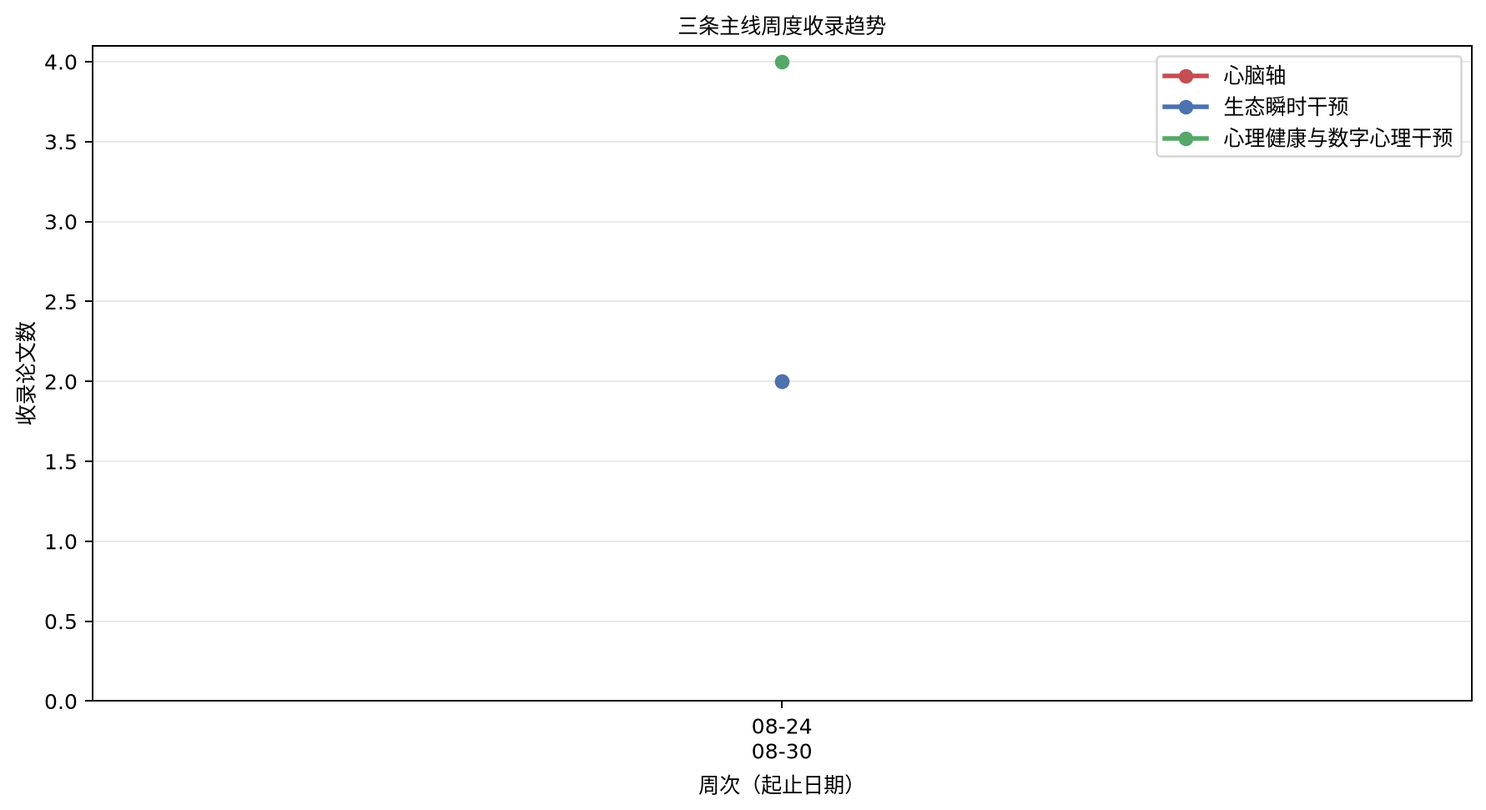
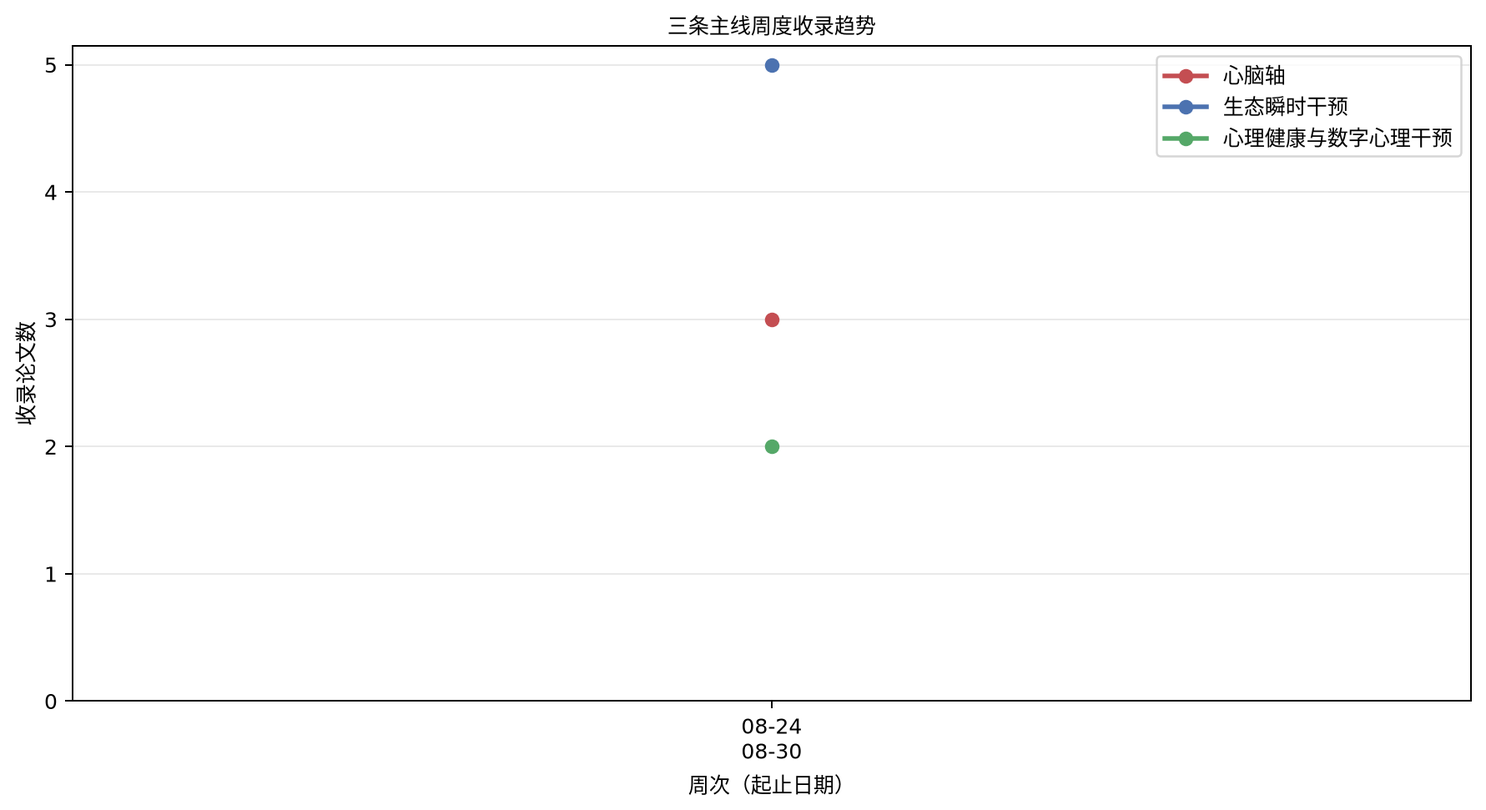
Update Newsletter for 2026-08-24_to_2026-08-30

diff --git a/newsletters/2026-08-24_to_2026-08-30_weekly_paper.html b/newsletters/2026-08-24_to_2026-08-30_weekly_paper.html
@@ -1,79 +1,89 @@
 <h1>心脑、生态瞬时干预与数字心理健康文献周报（2026-08-24 至 2026-08-30）</h1>
-<p>本期收录 5 篇文献。</p>
+<p>本期收录 6 篇文献。</p>
 <h2>重点推荐</h2>
-<p>收录 3 篇文献。</p>
-<h3>1. 基于移动通讯应用、由治疗性伴侣代理实施、针对有抑郁症状年轻成人的干预研究：概念验证与准实验研究</h3>
+<p>收录 4 篇文献。</p>
+<h3>1. 多模态脑电图–心率变异性评估个体调节模式：一种面向精准精神病学的扰动范式</h3>
+<ul>
+<li>原文标题：Multimodal EEG–HRV assessment of individual regulatory patterns: a perturbation-based approach toward precision psychiatry</li>
+<li>作者：Zsoltné Hauber, Sándor György Fekete, Elek Dinya, István Karsai, Gábor Elbert</li>
+<li>期刊：Frontiers in Psychiatry，JCR Q2，IF 3.2</li>
+<li>发表时间：2026-08-24</li>
+<li>主题标签：心脑轴；生态瞬时干预</li>
+<li>关键词：脑电图；心率变异性；自主神经调节；个体差异；精准精神病学</li>
+</ul>
+<p><strong>摘要</strong>：背景：当代精神病学研究日益强调需要客观、具有生物学基础的标志物，以补充基于症状的诊断框架。尽管脑电图广泛用于探究与注意、唤醒和认知控制相关的神经动态，但这些方法通常以脑为中心，依赖于静态或静息态范式。尽管理论模型强调脑–身体交互，自主神经动态的整合仍然有限。方法：本初步研究采用结合可穿戴脑电图与心率变异性的多模态、基于扰动的范式，考察皮质–自主神经调节动态。十名健康受试者暴露于简短的听觉条件（静默、噪声刺激和双耳节拍听觉输入）。分析额叶上β频段活动及迷走神经介导的心率变异性指标，以刻画受试者在各条件下的个体内调节反应。结果：在皮质和自主神经指标中均观察到条件相关变异，但未检测到显著的组水平效应。反应的方向和幅度呈现出显著的个体间差异。部分受试者中，脑电图与心率变异性指标之间的协调变化提示多模态皮质–自主神经反应模式，而其他受试者则表现出分歧或极小的反应轮廓。十名受试者中有四名观察到额叶上β活动降低与RMSSD升高的协调变化。鉴于本研究的探索性及样本量有限，这些观察应视为初步且具有假说生成意义。结论：这些发现支持多模态、刺激依赖性方法在表征超越静态生物标志物的动态脑–身体反应方面的潜在价值。所观察到的多模态反应配置与协调的皮质–自主神经反应模式一致，并为生成有关脑–身体调节个体差异的假说提供了有用框架。作为探索性初步研究，当前发现需在更大且临床多样化的队列中得到验证，方能得出有关生理亚型或临床应用的结论。该基于扰动的多模态脑电图–心率变异性框架可能通过为表征个体脑–身体反应变异性提供方法论基础，对未来的生理学知情的精准精神病学研究有所贡献。</p>
+<p><strong>原文链接</strong>：<a href="https://doi.org/10.3389/fpsyt.2026.1851256">Crossref</a></p>
+<h3>2. 基于瞳孔直径、皮电活动与心率通过自主神经唤醒对情绪视频进行机器学习分类</h3>
+<ul>
+<li>原文标题：Machine learning classification of emotional videos via autonomic arousal based on pupil diameters, electrodermal activity and heart rate.</li>
+<li>作者：Bruno Laeng, Imac Zambrana, Jie Hou, Ørjan Grøttem Martinsen, Kristiane Holm</li>
+<li>期刊：International journal of psychophysiology : official journal of the International Organization of Psychophysiology，JCR Q2，IF 2.6</li>
+<li>发表时间：2026-08-25</li>
+<li>主题标签：心脑轴；生态瞬时干预</li>
+<li>关键词：自主神经唤醒；瞳孔直径；机器学习情绪分类；皮电活动</li>
+</ul>
+<p><strong>摘要</strong>：本研究评估了皮电活动、心率变异性与瞳孔直径通过机器学习检测情绪状态的能力，以探究简单的唤醒指标是否能区分复杂情绪标签：愉悦、敬畏、厌恶、养育之爱与悲伤。在实验室环境中，47名参与者在观看10段短视频后立即从五个选项中选出最适切情绪标签。分类仅依赖三种心理生理指标，并应用三种机器学习模型：支持向量机、随机森林与极限梯度提升。特征包括基线校正的平均瞳孔直径与皮电活动峰值。噪声较大的心率变异性数据因信噪比不佳而被剔除。瞳孔直径反映交感去甲肾上腺素能激活及自主神经系统内的交互耦合，可提供稳定的状态估计。在核心情感环状模型中，支持向量机达到峰值准确率，瞳孔直径在所有架构中特征重要性得分最高。结果揭示多对一映射，即离散效价状态产生难以区分的生理特征：高唤醒状态与低唤醒状态被混淆。值得注意的是，敬畏引发瞳孔收缩，与厌恶特征相似。剔除心血管特征显著提升了随机森林与极限梯度提升的性能。这些发现提示，简单唤醒指标，尤其是瞳孔测量，无需复杂时间序列分析即可分类情绪。非侵入式传感器可能有助于开发以客观生理数据校准的敏感计算机系统。</p>
+<p><strong>原文链接</strong>：<a href="https://pubmed.ncbi.nlm.nih.gov/42641989/">PubMed</a></p>
+<h3>3. 基于移动即时通讯应用、由治疗伴侣代理实施的针对抑郁症状年轻成人的干预研究：概念验证与准实验研究</h3>
 <ul>
 <li>原文标题：Investigating the mobile messenger app-based intervention delivered by a therapeutic companion agent for young adults with depressive symptoms: A proof-of-concept and quasi-experimental study.</li>
 <li>作者：Youngjae Yoo, Minuk Kim, Soyoung Kim, Gayeon Lee, Jinwoo Kim</li>
 <li>期刊：Digital health，JCR Q1，IF 3.3</li>
 <li>发表时间：2026-08-28</li>
 <li>主题标签：生态瞬时干预；心理健康与数字心理干预</li>
-<li>关键词：抑郁症状；数字心理干预；生态瞬时评估与干预；治疗性伴侣代理；治疗联盟</li>
+<li>关键词：治疗伴侣代理；生态瞬时评估/干预；抑郁症状；移动即时通讯；概念验证</li>
 </ul>
-<p><strong>摘要</strong>：背景：尽管数字干预对抑郁年轻人具有临床潜力，但低参与度仍是持续挑战。会话式治疗性伴侣代理可培养数字治疗联盟以解决该障碍。目的：本研究旨在开发融合行为激活、生态瞬时评估/干预及游戏化的Wizard-of-Oz治疗性伴侣代理原型，并评估其对有抑郁症状年轻成人的概念验证可行性、可接受性与初步临床疗效。方法：招募58名年龄20至39岁、具有亚临床至中度抑郁症状的韩国年轻成人（50.0%为女性，基于患者健康问卷-9）。干预组（n=29）与治疗性伴侣代理互动六周，频率匹配的被动对照组（n=29）维持常规生活。主要结局为可行性（依从性）与可接受性（满意度）。次要疗效结局（贝克抑郁量表-II、广泛性焦虑障碍-7、生活质量 enjoyment 与满意度问卷-简版）每两周评估一次。结果：58名参与者中57人完成研究。干预被证明可行、可接受且可用，达到69.5%严格按时EMA依从率、66.2%行为激活常规完成率、平均每日满意度3.49/5.0及平均系统可用性量表得分74.02，均达到预先设定基准。探索性分析显示，与对照组相比，干预组抑郁症状显著减轻、生活质量显著改善。结论：基于治疗性伴侣代理的干预可行且可接受，成功培养了数字治疗联盟。虽然初步临床信号令人鼓舞，仍需未来充分把握度的随机对照试验以确证临床疗效。</p>
+<p><strong>摘要</strong>：背景：尽管数字干预对患有抑郁症的年轻成人具有临床潜力，但低参与度仍是持续挑战。对话式治疗伴侣代理（TCA）可通过建立数字治疗联盟来应对这一障碍。目的：本研究旨在开发一个整合行为激活、生态瞬时评估/干预（EMA/EMI）与游戏化的Wizard-of-Oz TCA原型，并评估其对患有抑郁症状的年轻成人的概念验证可行性、可接受性与初步临床疗效。方法：招募58名年龄20至39岁（50.0%女性）的韩国年轻成人，其抑郁症状处于亚临床至中度严重水平（患者健康问卷-9）。干预组（n=29）与TCA互动六周，频率匹配的被动对照组（n=29）维持日常常规。主要结局为可行性（依从性）与可接受性（满意度）。次要疗效结局（贝克抑郁量表-II、广泛性焦虑障碍-7、生活质量享受与满意度问卷-简版）每两周评估一次。结果：58名参与者中57人完成研究。干预被证实可行、可接受且可用，达到69.5%的严格准时EMA依从率、66.2%的行为激活常规完成率、平均每日满意度3.49/5.0分、系统可用性量表（SUS）平均74.02分，均达到预先设定的基准。探索性分析表明，与对照组相比，干预组在抑郁症状减轻与生活质量改善方面有显著更大提升。结论：基于TCA的干预可行且可接受，成功培育了数字治疗联盟。尽管初步临床信号令人鼓舞，仍需未来全效力的随机对照试验以明确确立临床疗效。</p>
 <p><strong>原文链接</strong>：<a href="https://pubmed.ncbi.nlm.nih.gov/42662150/">PubMed</a></p>
-<h3>2. 健康研究中的数字表型：方法、差距与机遇的范围综述</h3>
-<ul>
-<li>原文标题：Digital Phenotyping in Health Research: Scoping Review of Methods, Gaps, and Opportunities.</li>
-<li>作者：Nolwenn Badier, Alice Lafitte, Audrey Difernand, Gloria A Aguayo, Guy Fagherazzi, Jukka-Pekka Onnela, Benjamin Vittrant, Bastien Lechat, Quentin De Larochelambert, Jean-François Toussaint, Lidia Delrieu</li>
-<li>期刊：Journal of medical Internet research，JCR Q1，IF 6.0</li>
-<li>发表时间：2026-08-28</li>
-<li>主题标签：心脑轴；生态瞬时干预</li>
-<li>关键词：数字表型；可穿戴设备；纵向数据分析；方法学综述；健康研究</li>
-</ul>
-<p><strong>摘要</strong>：背景：可穿戴和联网数字设备持续产生大量真实世界的行为、生理和环境数据，为健康监测和个性化照护提供了新机会。数字表型已成为一种有前景的范式，然而关于此类数据应如何分析，目前共识有限。分析实践不一致和方法学报告不充分可能损害可重复性、可比性和研究结果的有效性。目的：本范围综述考察了健康研究中数字表型的当前分析实践，识别方法学差距，并强调透明度和标准化方法的必要性。方法：在PubMed、Scopus、Embase和Web of Science中进行了文献检索，Google Scholar作为补充来源。符合条件的研究发表于2024年12月31日之前，涉及人类群体，并在纵向健康研究中使用可穿戴数字设备。研究由多名评审者依据预设纳入标准独立筛选。数据提取聚焦于6个方法学领域：样本量确定、变量选择和定义、数据清洗与预处理、数字表型方法、预测建模及大规模数据背景下的统计显著性处理。结果：共纳入162项研究。多数研究发表于2018年及以后（n=144，89%），主要在北美开展（n=92，57%）。活动追踪器（n=81，50%）、智能手机（n=35，22%）、加速度计（n=26，16%）和智能手表（n=24，15%）是最常用的设备。最常见结局是活动水平（n=67，41%）、睡眠（n=65，40%）、步数（n=63，39%）和心率（n=46，28%）。在所有方法学领域均观察到异质性和报告不足。预处理是最常被报告的部分（n=88，54%），但缺失数据处理等具体方面仍描述不一致（n=35，22%）。样本量确定方法仅在30%（n=48）的研究中被报告，变量选择方法在27%（n=43）中被描述。数字表型方法在30%（n=48）的研究中被识别，且主要使用基于回归的模型。预测建模方法在17%（n=28）的研究中被报告，算法多样性显著且验证程序报告有限。仅有4.3%（n=7）的研究明确讨论了与大型或高维数据集相关的统计挑战。不同健康领域的实践各异，没有一个领域在所有方法学组成部分上持续展示出全面报告。结论：数字表型研究正在快速扩展，但方法学实践仍异质且标准化不足。通过提供可穿戴来源纵向数据在健康研究中当前处理和分析方式的跨领域概览，本综述强调了分析选择和理由报告中反复出现的差距，特别是在样本量确定、预处理、变量定义、预测建模和统计推断方面。这些发现强调了建立更清晰分析框架和更一致报告实践的必要性，以提高基于可穿戴数字健康研究的透明度、可重复性和方法学严谨性。试验注册：PROSPERO CRD420251234000；https://www.crd.york.ac.uk/PROSPERO/view/CRD420251234000。</p>
-<p><strong>原文链接</strong>：<a href="https://pubmed.ncbi.nlm.nih.gov/42660539/">PubMed</a></p>
-<h3>3. 每日心率变异性生物反馈练习对杏仁核结构协变网络的影响</h3>
+<h3>4. 每日心率变异性生物反馈练习对杏仁核结构协变网络的影响</h3>
 <ul>
 <li>原文标题：Effects of daily heart rate variability biofeedback practice on the amygdala's structural covariance network.</li>
 <li>作者：Kalekirstos Alemu, Hyun Joo Yoo, Kaoru Nashiro, Jungwon Min, Padideh Nasseri, Christine Cho, Paul Choi, Shelby L Bachman, Shai Porat, Shubir Dutt, Julian F Thayer, Mara Mather</li>
 <li>期刊：International journal of psychophysiology : official journal of the International Organization of Psychophysiology，JCR Q2，IF 2.6</li>
 <li>发表时间：2026-08-30</li>
-<li>主题标签：心脑轴；心理健康与数字心理干预</li>
-<li>关键词：心率变异性生物反馈；杏仁核结构协变网络；神经内脏整合模型</li>
+<li>主题标签：心脑轴；生态瞬时干预</li>
+<li>关键词：心率变异性生物反馈；神经内脏整合模型；结构性磁共振成像；结构协变；情绪调节；前额叶皮层；杏仁核</li>
 </ul>
-<p><strong>摘要</strong>：神经内脏整合模型假设杏仁核与前额叶皮层之间的交互作用影响心率变异性（HRV）和情绪调节。新近证据表明，HRV影响涉及情绪调节的脑区。本研究在既往功能性磁共振成像研究基础上，采用结构协变分析考察HRV生物反馈干预对杏仁核与皮层区域结构协变的影响。在生物反馈干预期间考察杏仁核与皮层区域的协变，可为理解HRV调节尝试如何影响参与HRV和情绪调节的神经结构提供洞察。研究采集了151名参与者（100名年轻成人，51名老年成人）干预前后的MRI扫描，参与者完成为期5周的每日生物反馈训练，目标分别为提高HRV（Osc+条件）或降低HRV（Osc-条件）。在两个年龄组中，两种干预条件与右侧杏仁核和左侧内侧前额叶皮层之间的结构协变模式呈相反关联。在Osc+条件下，左侧杏仁核体积变化与右侧眶额皮层体积变化呈负相关，而Osc-条件下未观察到显著关联。这些发现与神经内脏整合模型一致，即前额叶皮层对皮层下结构施加抑制性影响，且HRV影响参与情绪调节的脑区。</p>
+<p><strong>摘要</strong>：神经内脏整合模型认为，杏仁核与前额叶皮层之间的交互作用影响心率变异性（HRV）和情绪调节。新近证据亦提示HRV影响参与情绪调节的脑区。本研究在既往功能性磁共振成像研究基础上，采用结构协变分析考察HRV生物反馈干预对杏仁核与皮层区域结构协变的影响。在生物反馈干预期间考察杏仁核与皮层区域的协变，可揭示HRV调节尝试如何影响参与HRV和情绪调节的神经结构。研究采集151名参与者（100名年轻成人、51名老年成人）基线和干预后MRI扫描数据，参与者完成为期5周的每日生物反馈训练，以增强（Osc+条件）或降低（Osc-条件）HRV。在两个年龄组中，两种干预条件与右侧杏仁核和左侧内侧前额叶皮层之间相反的结构协变模式相关。在Osc+条件下，左侧杏仁核体积变化与右侧眶额皮层体积变化呈负相关，而Osc-条件下未观察到显著关联。上述发现与神经内脏整合模型一致，即前额叶皮层对皮层下结构发挥抑制性影响，且HRV影响参与情绪调节的脑区。</p>
 <p><strong>原文链接</strong>：<a href="https://pubmed.ncbi.nlm.nih.gov/42669395/">PubMed</a></p>
 <h2>心脑轴</h2>
 <p>收录 0 篇文献。</p>
 <p>本期无符合条件的文献。</p>
 <h2>生态瞬时干预</h2>
-<p>收录 0 篇文献。</p>
-<p>本期无符合条件的文献。</p>
+<p>收录 1 篇文献。</p>
+<h3>1. 健康研究中的数字表型：方法、缺口与机遇的范围综述</h3>
+<ul>
+<li>原文标题：Digital Phenotyping in Health Research: Scoping Review of Methods, Gaps, and Opportunities.</li>
+<li>作者：Nolwenn Badier, Alice Lafitte, Audrey Difernand, Gloria A Aguayo, Guy Fagherazzi, Jukka-Pekka Onnela, Benjamin Vittrant, Bastien Lechat, Quentin De Larochelambert, Jean-François Toussaint, Lidia Delrieu</li>
+<li>期刊：Journal of medical Internet research，JCR Q1，IF 6.0</li>
+<li>发表时间：2026-08-28</li>
+<li>主题标签：生态瞬时干预</li>
+<li>关键词：数字表型；可穿戴设备；纵向数据；方法学综述；健康研究</li>
+</ul>
+<p><strong>摘要</strong>：背景：可穿戴及互联数字设备持续产生大量真实世界的行为、生理和环境数据，为健康监测和个体化照护提供了新机会。数字表型已成为一个有前景的范式，然而在如何分析此类数据方面共识有限。不一致的分析实践和方法学报告不足可能损害结果的可重复性、可比性和有效性。目的：本范围综述考察了健康研究中数字表型的当前分析实践，识别方法学缺口，并强调透明性和标准化方法的必要性。方法：在PubMed、Scopus、Embase和Web of Science中进行文献检索，并以Google Scholar作为补充来源。纳入研究发表于2024年12月31日之前，涉及人类群体，并在纵向健康研究中使用可穿戴数字设备。研究由多名评审者依据预定纳入标准独立筛选。数据提取聚焦于6个方法学领域：样本量确定、变量选择与定义、数据清洗与预处理、数字表型方法、预测建模，以及大规模数据情境下的统计显著性处理。结果：共纳入162项研究。多数研究自2018年起发表（n=144，89%），主要在北美洲开展（n=92，57%）。最常用的设备为活动追踪器（n=81，50%）、智能手机（n=35，22%）、加速度计（n=26，16%）和智能手表（n=24，15%）。最常见的结果为活动水平（n=67，41%）、睡眠（n=65，40%）、步数（n=63，39%）和心率（n=46，28%）。在所有方法学领域均观察到异质性和报告不足。预处理是最常报告的部分（n=88，54%），但缺失数据处理等具体方面仍描述不一致（n=35，22%）。仅30%（n=48）的研究报告了样本量确定方法，27%（n=43）描述了变量选择方法。30%（n=48）的研究识别出数字表型方法且以基于回归的模型为主。17%（n=28）的研究报告了预测建模方法，算法差异大且验证程序报告有限。仅4.3%（n=7）的研究明确讨论了与大规模或高维数据集相关的统计挑战。各健康领域的实践各异，没有领域在所有方法学组成部分中持续展现全面报告。结论：数字表型研究正在快速扩展，但方法学实践仍异质性高且标准化不足。通过提供当前健康研究中可穿戴来源纵向数据处理与分析方式的跨领域概览，本综述强调了分析选择报告与论证中的反复缺口，尤其在样本量确定、预处理、变量定义、预测建模和统计推断方面。这些发现提示需更清晰的分析框架和更一致的报告实践，以提高基于可穿戴数字健康研究的透明性、可重复性和方法学严谨性。</p>
+<p><strong>原文链接</strong>：<a href="https://pubmed.ncbi.nlm.nih.gov/42660539/">PubMed</a></p>
 <h2>心理健康与数字心理干预</h2>
-<p>收录 2 篇文献。</p>
-<h3>1. 与AI驱动的数字心理健康干预Yuna相关的情绪和压力的即时及持续改善：现实世界回顾性研究</h3>
+<p>收录 1 篇文献。</p>
+<h3>1. 与AI驱动的数字心理健康干预Yuna相关的情绪和压力的即时及持续改善：真实世界回顾性研究</h3>
 <ul>
 <li>原文标题：Immediate and Sustained Improvements in Mood and Stress Associated With Yuna, an AI-Powered Digital Mental Health Intervention: Real-World Retrospective Study.</li>
 <li>作者：Kelsey McAlister, Courtney Jewell, Chad Stecher, Jennifer Huberty</li>
 <li>期刊：JMIR mHealth and uHealth，JCR Q1，IF 6.2</li>
 <li>发表时间：2026-08-25</li>
 <li>主题标签：心理健康与数字心理干预</li>
-<li>关键词：AI心理健康干预；情绪改善；压力改善；现实世界研究</li>
+<li>关键词：AI驱动的数字心理健康干预；情绪改善；压力改善；真实世界研究；会话内即时效应</li>
 </ul>
-<p><strong>摘要</strong>：背景：AI驱动的数字心理健康干预是解决传统心理保健障碍的一种有前景的方法。然而，其在现实世界中即时和持续益处的证据仍然有限。目的：这项现实世界回顾性研究旨在探索与使用AI驱动的数字心理健康干预Yuna相关的感知情绪和压力变化模式。我们旨在描述用户人口统计学和会话特征，量化会话内及随时间持续使用Yuna时情绪和压力变化的幅度，并识别与会话中情绪和压力变化相关的会话层面因素。方法：纳入至少启动一次Yuna应用程序会话的成年用户。用户在会话前后通过视觉模拟量表自我报告情绪和压力。使用线性混合效应模型探索会话内情绪和压力的即时改善，以及会话间情绪和压力症状的持续变化。同时检验会话层面预测因素。结果：共纳入5549名现实世界用户。用户在情绪和压力方面均表现出显著的即时会话内改善，敏感性分析结果一致。会话间分析显示基线情绪和压力逐渐改善。基线症状严重程度是即时会话内变化的最强预测因素，其次是会话持续时间。使用的独特治疗方法数量越多，两种结局的改善越小。结论：使用AI驱动的数字心理健康干预Yuna与感知的会话内情绪和压力改善相关，并提供了重复会话中情绪和压力逐渐改善的初步证据。然而，缺乏对照组和潜在的选择偏差排除了因果结论。这些发现为AI驱动的数字心理健康干预作为可获得的即时支持工具提供了有前景的现实世界证据。需要前瞻性对照设计以确定因果效应并评估所观察改善的可持续性。</p>
+<p><strong>摘要</strong>：背景：AI驱动的数字心理健康干预是解决传统心理健康护理障碍的一种有前景的方法。然而，其在真实世界中即时和持续获益的证据仍然有限。目的：这项真实世界回顾性研究旨在探索与使用Yuna（一种AI驱动的数字心理健康干预）相关的感知情绪和压力变化模式。具体目标包括描述用户人口统计学和会话特征，量化会话内及持续使用过程中的情绪和压力变化幅度，并识别与会话内情绪和压力变化相关的会话层面因素。方法：成年Yuna用户中启动至少一次会话者被纳入研究。用户在会话前后使用视觉模拟量表自我报告情绪和压力。采用线性混合效应模型探索会话内即时改善以及会话间情绪和压力症状的持续变化。同时使用线性混合效应模型检验会话内改善的预测因素，包括基线症状严重程度、会话时长、使用的独特治疗方法总数、安全护栏激活和性别。结果：共纳入5549名真实世界用户。用户在情绪和压力方面均表现出显著的即时会话内改善，敏感性分析结果一致。会话间分析显示基线和压力的逐步改善。基线症状严重程度是即时会话内变化的最强预测因素，其次是会话时长。使用的独特治疗方法数量较多与两种结局的较小改善相关。结论：使用Yuna与感知的会话内情绪和压力改善相关，并初步提示多次会话后情绪和压力逐步改善。然而，缺乏对照组和潜在选择偏倚排除了因果结论。这些发现为AI驱动的数字心理健康干预作为可及、按需支持工具提供了有前景的真实世界证据。未来需要前瞻性对照设计以确定因果效应并评估所观察改善的可持续性。</p>
 <p><strong>原文链接</strong>：<a href="https://pubmed.ncbi.nlm.nih.gov/42641108/">PubMed</a></p>
-<h3>2. 与Yuna相关的情绪和压力即时及持续改善：一项AI驱动的数字心理健康干预的真实世界回顾性研究</h3>
-<ul>
-<li>原文标题：Immediate and Sustained Improvements in Mood and Stress Associated With Yuna, an AI-Powered Digital Mental Health Intervention: Real-World Retrospective Study</li>
-<li>作者：Kelsey McAlister, Courtney Jewell, Chad Stecher, Jennifer Huberty</li>
-<li>期刊：JMIR mHealth and uHealth，JCR Q1，IF 6.2</li>
-<li>发表时间：2026-08-25</li>
-<li>主题标签：心理健康与数字心理干预</li>
-<li>关键词：AI驱动数字心理干预；情绪改善；压力改善；真实世界研究；视觉模拟量表</li>
-</ul>
-<p><strong>摘要</strong>：背景：AI驱动的数字心理健康干预是有望解决传统心理保健障碍的一种方法，但其即时和持续益处的真实世界证据仍然有限。目的：本真实世界回顾性研究旨在探索使用AI驱动的数字心理健康干预Yuna时感知情绪和压力变化模式。具体目标为：（1）描述用户人口统计学特征和会话特征，（2）量化会话内及随持续使用Yuna随时间推移的情绪和压力变化幅度，以及（3）识别与会话内情绪和压力变化相关的会话层面因素。方法：纳入至少启动一次Yuna应用会话的成年用户（年龄≥18岁）。用户在会话前后通过视觉模拟量表（范围0-1）自我报告情绪和压力。采用线性混合效应模型探讨情绪和压力的即时会话内改善，以及症状变化的持续会话间改善；同时检验会话内改善的会话层面预测因素，包括基线症状严重程度、会话时长、使用的独特治疗方法总数、安全护栏激活和性别。结果：共纳入5549名真实世界用户（女性2901/5549，占52.3%；平均会话次数3.44，标准差9.83）。用户在情绪（d=0.55）和压力（d=0.56）方面均表现出显著的即时会话内改善，敏感性分析结果一致。会话间分析显示基线情绪（d=−0.009）和压力（d=−0.011）逐步改善。基线症状严重程度是即时会话内变化的最强预测因素（情绪：β=.118，SE 0.003；P&lt;.001；压力：β=.131，SE 0.004；P&lt;.001），其次为会话时长（情绪：β=.027，SE 0.003；P=.003；压力：β=.029，SE 0.003；P&lt;.001）。使用的独特治疗方法数量较多与两种结局的较小改善相关（情绪：β=−0.007，SE 0.003；P=.043；压力：β=−0.011，SE 0.003；P=.002）。结论：使用AI驱动的数字心理健康干预Yuna与感知的会话内情绪和压力改善相关，且初步证据显示重复会话后情绪和压力逐渐改善。然而，缺乏对照组和潜在选择偏倚排除了因果结论。这些发现为AI驱动的数字心理健康干预作为可获得、按需支持工具提供了有前景的真实世界证据。未来需采用前瞻性、对照设计以确证因果效应并评估所观察改善的持续性。</p>
-<p><strong>原文链接</strong>：<a href="https://doi.org/10.2196/94070">Crossref</a></p>
 <h2>数据分析</h2>
 <ul>
-<li>本周唯一收录：5 篇。</li>
-<li>三条主线：心脑轴 2 篇；生态瞬时干预 2 篇；心理健康与数字心理干预 4 篇。</li>
+<li>本周唯一收录：6 篇。</li>
+<li>三条主线：心脑轴 3 篇；生态瞬时干预 5 篇；心理健康与数字心理干预 2 篇。</li>
 <li>首个统计周，后续周报将显示与前一周的变化。</li>
 <li>提示：交叉研究可同时计入多条主线，因此三条主线之和可能高于唯一论文数。</li>
 </ul>
 <h3>热门主题</h3>
-<p>情绪改善（2）；压力改善（2）；AI心理健康干预（1）；现实世界研究（1）；AI驱动数字心理干预（1）；真实世界研究（1）；视觉模拟量表（1）；抑郁症状（1）；数字心理干预（1）；生态瞬时评估与干预（1）；治疗性伴侣代理（1）；治疗联盟（1）</p>
+<p>脑电图（1）；心率变异性（1）；自主神经调节（1）；个体差异（1）；精准精神病学（1）；自主神经唤醒（1）；瞳孔直径（1）；机器学习情绪分类（1）；皮电活动（1）；AI驱动的数字心理健康干预（1）；情绪改善（1）；压力改善（1）</p>
 <h3>关键词云图</h3>
 <p><img alt="2026-08-24_to_2026-08-30 关键词云图" src="assets/2026-08-24_to_2026-08-30_wordcloud.png" /></p>
 <h3>三主线周度趋势</h3>

diff --git a/newsletters/2026-08-24_to_2026-08-30_weekly_paper.md b/newsletters/2026-08-24_to_2026-08-30_weekly_paper.md
@@ -1,46 +1,59 @@
 # 心脑、生态瞬时干预与数字心理健康文献周报（2026-08-24 至 2026-08-30）
 
-本期收录 5 篇文献。
+本期收录 6 篇文献。
 
 ## 重点推荐
-收录 3 篇文献。
+收录 4 篇文献。
 
-### 1. 基于移动通讯应用、由治疗性伴侣代理实施、针对有抑郁症状年轻成人的干预研究：概念验证与准实验研究
+### 1. 多模态脑电图–心率变异性评估个体调节模式：一种面向精准精神病学的扰动范式
+
+- 原文标题：Multimodal EEG–HRV assessment of individual regulatory patterns: a perturbation-based approach toward precision psychiatry
+- 作者：Zsoltné Hauber, Sándor György Fekete, Elek Dinya, István Karsai, Gábor Elbert
+- 期刊：Frontiers in Psychiatry，JCR Q2，IF 3.2
+- 发表时间：2026-08-24
+- 主题标签：心脑轴；生态瞬时干预
+- 关键词：脑电图；心率变异性；自主神经调节；个体差异；精准精神病学
+
+**摘要**：背景：当代精神病学研究日益强调需要客观、具有生物学基础的标志物，以补充基于症状的诊断框架。尽管脑电图广泛用于探究与注意、唤醒和认知控制相关的神经动态，但这些方法通常以脑为中心，依赖于静态或静息态范式。尽管理论模型强调脑–身体交互，自主神经动态的整合仍然有限。方法：本初步研究采用结合可穿戴脑电图与心率变异性的多模态、基于扰动的范式，考察皮质–自主神经调节动态。十名健康受试者暴露于简短的听觉条件（静默、噪声刺激和双耳节拍听觉输入）。分析额叶上β频段活动及迷走神经介导的心率变异性指标，以刻画受试者在各条件下的个体内调节反应。结果：在皮质和自主神经指标中均观察到条件相关变异，但未检测到显著的组水平效应。反应的方向和幅度呈现出显著的个体间差异。部分受试者中，脑电图与心率变异性指标之间的协调变化提示多模态皮质–自主神经反应模式，而其他受试者则表现出分歧或极小的反应轮廓。十名受试者中有四名观察到额叶上β活动降低与RMSSD升高的协调变化。鉴于本研究的探索性及样本量有限，这些观察应视为初步且具有假说生成意义。结论：这些发现支持多模态、刺激依赖性方法在表征超越静态生物标志物的动态脑–身体反应方面的潜在价值。所观察到的多模态反应配置与协调的皮质–自主神经反应模式一致，并为生成有关脑–身体调节个体差异的假说提供了有用框架。作为探索性初步研究，当前发现需在更大且临床多样化的队列中得到验证，方能得出有关生理亚型或临床应用的结论。该基于扰动的多模态脑电图–心率变异性框架可能通过为表征个体脑–身体反应变异性提供方法论基础，对未来的生理学知情的精准精神病学研究有所贡献。
+
+**原文链接**：[Crossref](https://doi.org/10.3389/fpsyt.2026.1851256)
+
+### 2. 基于瞳孔直径、皮电活动与心率通过自主神经唤醒对情绪视频进行机器学习分类
+
+- 原文标题：Machine learning classification of emotional videos via autonomic arousal based on pupil diameters, electrodermal activity and heart rate.
+- 作者：Bruno Laeng, Imac Zambrana, Jie Hou, Ørjan Grøttem Martinsen, Kristiane Holm
+- 期刊：International journal of psychophysiology : official journal of the International Organization of Psychophysiology，JCR Q2，IF 2.6
+- 发表时间：2026-08-25
+- 主题标签：心脑轴；生态瞬时干预
+- 关键词：自主神经唤醒；瞳孔直径；机器学习情绪分类；皮电活动
+
+**摘要**：本研究评估了皮电活动、心率变异性与瞳孔直径通过机器学习检测情绪状态的能力，以探究简单的唤醒指标是否能区分复杂情绪标签：愉悦、敬畏、厌恶、养育之爱与悲伤。在实验室环境中，47名参与者在观看10段短视频后立即从五个选项中选出最适切情绪标签。分类仅依赖三种心理生理指标，并应用三种机器学习模型：支持向量机、随机森林与极限梯度提升。特征包括基线校正的平均瞳孔直径与皮电活动峰值。噪声较大的心率变异性数据因信噪比不佳而被剔除。瞳孔直径反映交感去甲肾上腺素能激活及自主神经系统内的交互耦合，可提供稳定的状态估计。在核心情感环状模型中，支持向量机达到峰值准确率，瞳孔直径在所有架构中特征重要性得分最高。结果揭示多对一映射，即离散效价状态产生难以区分的生理特征：高唤醒状态与低唤醒状态被混淆。值得注意的是，敬畏引发瞳孔收缩，与厌恶特征相似。剔除心血管特征显著提升了随机森林与极限梯度提升的性能。这些发现提示，简单唤醒指标，尤其是瞳孔测量，无需复杂时间序列分析即可分类情绪。非侵入式传感器可能有助于开发以客观生理数据校准的敏感计算机系统。
+
+**原文链接**：[PubMed](https://pubmed.ncbi.nlm.nih.gov/42641989/)
+
+### 3. 基于移动即时通讯应用、由治疗伴侣代理实施的针对抑郁症状年轻成人的干预研究：概念验证与准实验研究
 
 - 原文标题：Investigating the mobile messenger app-based intervention delivered by a therapeutic companion agent for young adults with depressive symptoms: A proof-of-concept and quasi-experimental study.
 - 作者：Youngjae Yoo, Minuk Kim, Soyoung Kim, Gayeon Lee, Jinwoo Kim
 - 期刊：Digital health，JCR Q1，IF 3.3
 - 发表时间：2026-08-28
 - 主题标签：生态瞬时干预；心理健康与数字心理干预
-- 关键词：抑郁症状；数字心理干预；生态瞬时评估与干预；治疗性伴侣代理；治疗联盟
+- 关键词：治疗伴侣代理；生态瞬时评估/干预；抑郁症状；移动即时通讯；概念验证
 
-**摘要**：背景：尽管数字干预对抑郁年轻人具有临床潜力，但低参与度仍是持续挑战。会话式治疗性伴侣代理可培养数字治疗联盟以解决该障碍。目的：本研究旨在开发融合行为激活、生态瞬时评估/干预及游戏化的Wizard-of-Oz治疗性伴侣代理原型，并评估其对有抑郁症状年轻成人的概念验证可行性、可接受性与初步临床疗效。方法：招募58名年龄20至39岁、具有亚临床至中度抑郁症状的韩国年轻成人（50.0%为女性，基于患者健康问卷-9）。干预组（n=29）与治疗性伴侣代理互动六周，频率匹配的被动对照组（n=29）维持常规生活。主要结局为可行性（依从性）与可接受性（满意度）。次要疗效结局（贝克抑郁量表-II、广泛性焦虑障碍-7、生活质量 enjoyment 与满意度问卷-简版）每两周评估一次。结果：58名参与者中57人完成研究。干预被证明可行、可接受且可用，达到69.5%严格按时EMA依从率、66.2%行为激活常规完成率、平均每日满意度3.49/5.0及平均系统可用性量表得分74.02，均达到预先设定基准。探索性分析显示，与对照组相比，干预组抑郁症状显著减轻、生活质量显著改善。结论：基于治疗性伴侣代理的干预可行且可接受，成功培养了数字治疗联盟。虽然初步临床信号令人鼓舞，仍需未来充分把握度的随机对照试验以确证临床疗效。
+**摘要**：背景：尽管数字干预对患有抑郁症的年轻成人具有临床潜力，但低参与度仍是持续挑战。对话式治疗伴侣代理（TCA）可通过建立数字治疗联盟来应对这一障碍。目的：本研究旨在开发一个整合行为激活、生态瞬时评估/干预（EMA/EMI）与游戏化的Wizard-of-Oz TCA原型，并评估其对患有抑郁症状的年轻成人的概念验证可行性、可接受性与初步临床疗效。方法：招募58名年龄20至39岁（50.0%女性）的韩国年轻成人，其抑郁症状处于亚临床至中度严重水平（患者健康问卷-9）。干预组（n=29）与TCA互动六周，频率匹配的被动对照组（n=29）维持日常常规。主要结局为可行性（依从性）与可接受性（满意度）。次要疗效结局（贝克抑郁量表-II、广泛性焦虑障碍-7、生活质量享受与满意度问卷-简版）每两周评估一次。结果：58名参与者中57人完成研究。干预被证实可行、可接受且可用，达到69.5%的严格准时EMA依从率、66.2%的行为激活常规完成率、平均每日满意度3.49/5.0分、系统可用性量表（SUS）平均74.02分，均达到预先设定的基准。探索性分析表明，与对照组相比，干预组在抑郁症状减轻与生活质量改善方面有显著更大提升。结论：基于TCA的干预可行且可接受，成功培育了数字治疗联盟。尽管初步临床信号令人鼓舞，仍需未来全效力的随机对照试验以明确确立临床疗效。
 
 **原文链接**：[PubMed](https://pubmed.ncbi.nlm.nih.gov/42662150/)
 
-### 2. 健康研究中的数字表型：方法、差距与机遇的范围综述
-
-- 原文标题：Digital Phenotyping in Health Research: Scoping Review of Methods, Gaps, and Opportunities.
-- 作者：Nolwenn Badier, Alice Lafitte, Audrey Difernand, Gloria A Aguayo, Guy Fagherazzi, Jukka-Pekka Onnela, Benjamin Vittrant, Bastien Lechat, Quentin De Larochelambert, Jean-François Toussaint, Lidia Delrieu
-- 期刊：Journal of medical Internet research，JCR Q1，IF 6.0
-- 发表时间：2026-08-28
-- 主题标签：心脑轴；生态瞬时干预
-- 关键词：数字表型；可穿戴设备；纵向数据分析；方法学综述；健康研究
-
-**摘要**：背景：可穿戴和联网数字设备持续产生大量真实世界的行为、生理和环境数据，为健康监测和个性化照护提供了新机会。数字表型已成为一种有前景的范式，然而关于此类数据应如何分析，目前共识有限。分析实践不一致和方法学报告不充分可能损害可重复性、可比性和研究结果的有效性。目的：本范围综述考察了健康研究中数字表型的当前分析实践，识别方法学差距，并强调透明度和标准化方法的必要性。方法：在PubMed、Scopus、Embase和Web of Science中进行了文献检索，Google Scholar作为补充来源。符合条件的研究发表于2024年12月31日之前，涉及人类群体，并在纵向健康研究中使用可穿戴数字设备。研究由多名评审者依据预设纳入标准独立筛选。数据提取聚焦于6个方法学领域：样本量确定、变量选择和定义、数据清洗与预处理、数字表型方法、预测建模及大规模数据背景下的统计显著性处理。结果：共纳入162项研究。多数研究发表于2018年及以后（n=144，89%），主要在北美开展（n=92，57%）。活动追踪器（n=81，50%）、智能手机（n=35，22%）、加速度计（n=26，16%）和智能手表（n=24，15%）是最常用的设备。最常见结局是活动水平（n=67，41%）、睡眠（n=65，40%）、步数（n=63，39%）和心率（n=46，28%）。在所有方法学领域均观察到异质性和报告不足。预处理是最常被报告的部分（n=88，54%），但缺失数据处理等具体方面仍描述不一致（n=35，22%）。样本量确定方法仅在30%（n=48）的研究中被报告，变量选择方法在27%（n=43）中被描述。数字表型方法在30%（n=48）的研究中被识别，且主要使用基于回归的模型。预测建模方法在17%（n=28）的研究中被报告，算法多样性显著且验证程序报告有限。仅有4.3%（n=7）的研究明确讨论了与大型或高维数据集相关的统计挑战。不同健康领域的实践各异，没有一个领域在所有方法学组成部分上持续展示出全面报告。结论：数字表型研究正在快速扩展，但方法学实践仍异质且标准化不足。通过提供可穿戴来源纵向数据在健康研究中当前处理和分析方式的跨领域概览，本综述强调了分析选择和理由报告中反复出现的差距，特别是在样本量确定、预处理、变量定义、预测建模和统计推断方面。这些发现强调了建立更清晰分析框架和更一致报告实践的必要性，以提高基于可穿戴数字健康研究的透明度、可重复性和方法学严谨性。试验注册：PROSPERO CRD420251234000；https://www.crd.york.ac.uk/PROSPERO/view/CRD420251234000。
-
-**原文链接**：[PubMed](https://pubmed.ncbi.nlm.nih.gov/42660539/)
-
-### 3. 每日心率变异性生物反馈练习对杏仁核结构协变网络的影响
+### 4. 每日心率变异性生物反馈练习对杏仁核结构协变网络的影响
 
 - 原文标题：Effects of daily heart rate variability biofeedback practice on the amygdala's structural covariance network.
 - 作者：Kalekirstos Alemu, Hyun Joo Yoo, Kaoru Nashiro, Jungwon Min, Padideh Nasseri, Christine Cho, Paul Choi, Shelby L Bachman, Shai Porat, Shubir Dutt, Julian F Thayer, Mara Mather
 - 期刊：International journal of psychophysiology : official journal of the International Organization of Psychophysiology，JCR Q2，IF 2.6
 - 发表时间：2026-08-30
-- 主题标签：心脑轴；心理健康与数字心理干预
-- 关键词：心率变异性生物反馈；杏仁核结构协变网络；神经内脏整合模型
+- 主题标签：心脑轴；生态瞬时干预
+- 关键词：心率变异性生物反馈；神经内脏整合模型；结构性磁共振成像；结构协变；情绪调节；前额叶皮层；杏仁核
 
-**摘要**：神经内脏整合模型假设杏仁核与前额叶皮层之间的交互作用影响心率变异性（HRV）和情绪调节。新近证据表明，HRV影响涉及情绪调节的脑区。本研究在既往功能性磁共振成像研究基础上，采用结构协变分析考察HRV生物反馈干预对杏仁核与皮层区域结构协变的影响。在生物反馈干预期间考察杏仁核与皮层区域的协变，可为理解HRV调节尝试如何影响参与HRV和情绪调节的神经结构提供洞察。研究采集了151名参与者（100名年轻成人，51名老年成人）干预前后的MRI扫描，参与者完成为期5周的每日生物反馈训练，目标分别为提高HRV（Osc+条件）或降低HRV（Osc-条件）。在两个年龄组中，两种干预条件与右侧杏仁核和左侧内侧前额叶皮层之间的结构协变模式呈相反关联。在Osc+条件下，左侧杏仁核体积变化与右侧眶额皮层体积变化呈负相关，而Osc-条件下未观察到显著关联。这些发现与神经内脏整合模型一致，即前额叶皮层对皮层下结构施加抑制性影响，且HRV影响参与情绪调节的脑区。
+**摘要**：神经内脏整合模型认为，杏仁核与前额叶皮层之间的交互作用影响心率变异性（HRV）和情绪调节。新近证据亦提示HRV影响参与情绪调节的脑区。本研究在既往功能性磁共振成像研究基础上，采用结构协变分析考察HRV生物反馈干预对杏仁核与皮层区域结构协变的影响。在生物反馈干预期间考察杏仁核与皮层区域的协变，可揭示HRV调节尝试如何影响参与HRV和情绪调节的神经结构。研究采集151名参与者（100名年轻成人、51名老年成人）基线和干预后MRI扫描数据，参与者完成为期5周的每日生物反馈训练，以增强（Osc+条件）或降低（Osc-条件）HRV。在两个年龄组中，两种干预条件与右侧杏仁核和左侧内侧前额叶皮层之间相反的结构协变模式相关。在Osc+条件下，左侧杏仁核体积变化与右侧眶额皮层体积变化呈负相关，而Osc-条件下未观察到显著关联。上述发现与神经内脏整合模型一致，即前额叶皮层对皮层下结构发挥抑制性影响，且HRV影响参与情绪调节的脑区。
 
 **原文链接**：[PubMed](https://pubmed.ncbi.nlm.nih.gov/42669395/)
 
@@ -51,50 +64,49 @@
 本期无符合条件的文献。
 
 ## 生态瞬时干预
-收录 0 篇文献。
+收录 1 篇文献。
 
-本期无符合条件的文献。
+### 1. 健康研究中的数字表型：方法、缺口与机遇的范围综述
+
+- 原文标题：Digital Phenotyping in Health Research: Scoping Review of Methods, Gaps, and Opportunities.
+- 作者：Nolwenn Badier, Alice Lafitte, Audrey Difernand, Gloria A Aguayo, Guy Fagherazzi, Jukka-Pekka Onnela, Benjamin Vittrant, Bastien Lechat, Quentin De Larochelambert, Jean-François Toussaint, Lidia Delrieu
+- 期刊：Journal of medical Internet research，JCR Q1，IF 6.0
+- 发表时间：2026-08-28
+- 主题标签：生态瞬时干预
+- 关键词：数字表型；可穿戴设备；纵向数据；方法学综述；健康研究
+
+**摘要**：背景：可穿戴及互联数字设备持续产生大量真实世界的行为、生理和环境数据，为健康监测和个体化照护提供了新机会。数字表型已成为一个有前景的范式，然而在如何分析此类数据方面共识有限。不一致的分析实践和方法学报告不足可能损害结果的可重复性、可比性和有效性。目的：本范围综述考察了健康研究中数字表型的当前分析实践，识别方法学缺口，并强调透明性和标准化方法的必要性。方法：在PubMed、Scopus、Embase和Web of Science中进行文献检索，并以Google Scholar作为补充来源。纳入研究发表于2024年12月31日之前，涉及人类群体，并在纵向健康研究中使用可穿戴数字设备。研究由多名评审者依据预定纳入标准独立筛选。数据提取聚焦于6个方法学领域：样本量确定、变量选择与定义、数据清洗与预处理、数字表型方法、预测建模，以及大规模数据情境下的统计显著性处理。结果：共纳入162项研究。多数研究自2018年起发表（n=144，89%），主要在北美洲开展（n=92，57%）。最常用的设备为活动追踪器（n=81，50%）、智能手机（n=35，22%）、加速度计（n=26，16%）和智能手表（n=24，15%）。最常见的结果为活动水平（n=67，41%）、睡眠（n=65，40%）、步数（n=63，39%）和心率（n=46，28%）。在所有方法学领域均观察到异质性和报告不足。预处理是最常报告的部分（n=88，54%），但缺失数据处理等具体方面仍描述不一致（n=35，22%）。仅30%（n=48）的研究报告了样本量确定方法，27%（n=43）描述了变量选择方法。30%（n=48）的研究识别出数字表型方法且以基于回归的模型为主。17%（n=28）的研究报告了预测建模方法，算法差异大且验证程序报告有限。仅4.3%（n=7）的研究明确讨论了与大规模或高维数据集相关的统计挑战。各健康领域的实践各异，没有领域在所有方法学组成部分中持续展现全面报告。结论：数字表型研究正在快速扩展，但方法学实践仍异质性高且标准化不足。通过提供当前健康研究中可穿戴来源纵向数据处理与分析方式的跨领域概览，本综述强调了分析选择报告与论证中的反复缺口，尤其在样本量确定、预处理、变量定义、预测建模和统计推断方面。这些发现提示需更清晰的分析框架和更一致的报告实践，以提高基于可穿戴数字健康研究的透明性、可重复性和方法学严谨性。
+
+**原文链接**：[PubMed](https://pubmed.ncbi.nlm.nih.gov/42660539/)
+
 
 ## 心理健康与数字心理干预
-收录 2 篇文献。
+收录 1 篇文献。
 
-### 1. 与AI驱动的数字心理健康干预Yuna相关的情绪和压力的即时及持续改善：现实世界回顾性研究
+### 1. 与AI驱动的数字心理健康干预Yuna相关的情绪和压力的即时及持续改善：真实世界回顾性研究
 
 - 原文标题：Immediate and Sustained Improvements in Mood and Stress Associated With Yuna, an AI-Powered Digital Mental Health Intervention: Real-World Retrospective Study.
 - 作者：Kelsey McAlister, Courtney Jewell, Chad Stecher, Jennifer Huberty
 - 期刊：JMIR mHealth and uHealth，JCR Q1，IF 6.2
 - 发表时间：2026-08-25
 - 主题标签：心理健康与数字心理干预
-- 关键词：AI心理健康干预；情绪改善；压力改善；现实世界研究
+- 关键词：AI驱动的数字心理健康干预；情绪改善；压力改善；真实世界研究；会话内即时效应
 
-**摘要**：背景：AI驱动的数字心理健康干预是解决传统心理保健障碍的一种有前景的方法。然而，其在现实世界中即时和持续益处的证据仍然有限。目的：这项现实世界回顾性研究旨在探索与使用AI驱动的数字心理健康干预Yuna相关的感知情绪和压力变化模式。我们旨在描述用户人口统计学和会话特征，量化会话内及随时间持续使用Yuna时情绪和压力变化的幅度，并识别与会话中情绪和压力变化相关的会话层面因素。方法：纳入至少启动一次Yuna应用程序会话的成年用户。用户在会话前后通过视觉模拟量表自我报告情绪和压力。使用线性混合效应模型探索会话内情绪和压力的即时改善，以及会话间情绪和压力症状的持续变化。同时检验会话层面预测因素。结果：共纳入5549名现实世界用户。用户在情绪和压力方面均表现出显著的即时会话内改善，敏感性分析结果一致。会话间分析显示基线情绪和压力逐渐改善。基线症状严重程度是即时会话内变化的最强预测因素，其次是会话持续时间。使用的独特治疗方法数量越多，两种结局的改善越小。结论：使用AI驱动的数字心理健康干预Yuna与感知的会话内情绪和压力改善相关，并提供了重复会话中情绪和压力逐渐改善的初步证据。然而，缺乏对照组和潜在的选择偏差排除了因果结论。这些发现为AI驱动的数字心理健康干预作为可获得的即时支持工具提供了有前景的现实世界证据。需要前瞻性对照设计以确定因果效应并评估所观察改善的可持续性。
+**摘要**：背景：AI驱动的数字心理健康干预是解决传统心理健康护理障碍的一种有前景的方法。然而，其在真实世界中即时和持续获益的证据仍然有限。目的：这项真实世界回顾性研究旨在探索与使用Yuna（一种AI驱动的数字心理健康干预）相关的感知情绪和压力变化模式。具体目标包括描述用户人口统计学和会话特征，量化会话内及持续使用过程中的情绪和压力变化幅度，并识别与会话内情绪和压力变化相关的会话层面因素。方法：成年Yuna用户中启动至少一次会话者被纳入研究。用户在会话前后使用视觉模拟量表自我报告情绪和压力。采用线性混合效应模型探索会话内即时改善以及会话间情绪和压力症状的持续变化。同时使用线性混合效应模型检验会话内改善的预测因素，包括基线症状严重程度、会话时长、使用的独特治疗方法总数、安全护栏激活和性别。结果：共纳入5549名真实世界用户。用户在情绪和压力方面均表现出显著的即时会话内改善，敏感性分析结果一致。会话间分析显示基线和压力的逐步改善。基线症状严重程度是即时会话内变化的最强预测因素，其次是会话时长。使用的独特治疗方法数量较多与两种结局的较小改善相关。结论：使用Yuna与感知的会话内情绪和压力改善相关，并初步提示多次会话后情绪和压力逐步改善。然而，缺乏对照组和潜在选择偏倚排除了因果结论。这些发现为AI驱动的数字心理健康干预作为可及、按需支持工具提供了有前景的真实世界证据。未来需要前瞻性对照设计以确定因果效应并评估所观察改善的可持续性。
 
 **原文链接**：[PubMed](https://pubmed.ncbi.nlm.nih.gov/42641108/)
-
-### 2. 与Yuna相关的情绪和压力即时及持续改善：一项AI驱动的数字心理健康干预的真实世界回顾性研究
-
-- 原文标题：Immediate and Sustained Improvements in Mood and Stress Associated With Yuna, an AI-Powered Digital Mental Health Intervention: Real-World Retrospective Study
-- 作者：Kelsey McAlister, Courtney Jewell, Chad Stecher, Jennifer Huberty
-- 期刊：JMIR mHealth and uHealth，JCR Q1，IF 6.2
-- 发表时间：2026-08-25
-- 主题标签：心理健康与数字心理干预
-- 关键词：AI驱动数字心理干预；情绪改善；压力改善；真实世界研究；视觉模拟量表
-
-**摘要**：背景：AI驱动的数字心理健康干预是有望解决传统心理保健障碍的一种方法，但其即时和持续益处的真实世界证据仍然有限。目的：本真实世界回顾性研究旨在探索使用AI驱动的数字心理健康干预Yuna时感知情绪和压力变化模式。具体目标为：（1）描述用户人口统计学特征和会话特征，（2）量化会话内及随持续使用Yuna随时间推移的情绪和压力变化幅度，以及（3）识别与会话内情绪和压力变化相关的会话层面因素。方法：纳入至少启动一次Yuna应用会话的成年用户（年龄≥18岁）。用户在会话前后通过视觉模拟量表（范围0-1）自我报告情绪和压力。采用线性混合效应模型探讨情绪和压力的即时会话内改善，以及症状变化的持续会话间改善；同时检验会话内改善的会话层面预测因素，包括基线症状严重程度、会话时长、使用的独特治疗方法总数、安全护栏激活和性别。结果：共纳入5549名真实世界用户（女性2901/5549，占52.3%；平均会话次数3.44，标准差9.83）。用户在情绪（d=0.55）和压力（d=0.56）方面均表现出显著的即时会话内改善，敏感性分析结果一致。会话间分析显示基线情绪（d=−0.009）和压力（d=−0.011）逐步改善。基线症状严重程度是即时会话内变化的最强预测因素（情绪：β=.118，SE 0.003；P<.001；压力：β=.131，SE 0.004；P<.001），其次为会话时长（情绪：β=.027，SE 0.003；P=.003；压力：β=.029，SE 0.003；P<.001）。使用的独特治疗方法数量较多与两种结局的较小改善相关（情绪：β=−0.007，SE 0.003；P=.043；压力：β=−0.011，SE 0.003；P=.002）。结论：使用AI驱动的数字心理健康干预Yuna与感知的会话内情绪和压力改善相关，且初步证据显示重复会话后情绪和压力逐渐改善。然而，缺乏对照组和潜在选择偏倚排除了因果结论。这些发现为AI驱动的数字心理健康干预作为可获得、按需支持工具提供了有前景的真实世界证据。未来需采用前瞻性、对照设计以确证因果效应并评估所观察改善的持续性。
-
-**原文链接**：[Crossref](https://doi.org/10.2196/94070)
 
 
 ## 数据分析
 
-- 本周唯一收录：5 篇。
-- 三条主线：心脑轴 2 篇；生态瞬时干预 2 篇；心理健康与数字心理干预 4 篇。
+- 本周唯一收录：6 篇。
+- 三条主线：心脑轴 3 篇；生态瞬时干预 5 篇；心理健康与数字心理干预 2 篇。
 - 首个统计周，后续周报将显示与前一周的变化。
 - 提示：交叉研究可同时计入多条主线，因此三条主线之和可能高于唯一论文数。
 
 ### 热门主题
 
-情绪改善（2）；压力改善（2）；AI心理健康干预（1）；现实世界研究（1）；AI驱动数字心理干预（1）；真实世界研究（1）；视觉模拟量表（1）；抑郁症状（1）；数字心理干预（1）；生态瞬时评估与干预（1）；治疗性伴侣代理（1）；治疗联盟（1）
+脑电图（1）；心率变异性（1）；自主神经调节（1）；个体差异（1）；精准精神病学（1）；自主神经唤醒（1）；瞳孔直径（1）；机器学习情绪分类（1）；皮电活动（1）；AI驱动的数字心理健康干预（1）；情绪改善（1）；压力改善（1）
 
 ### 关键词云图
 
